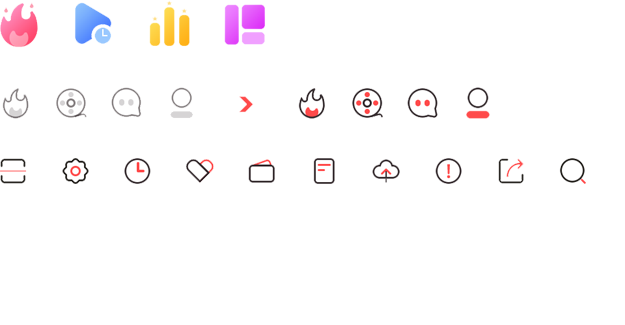
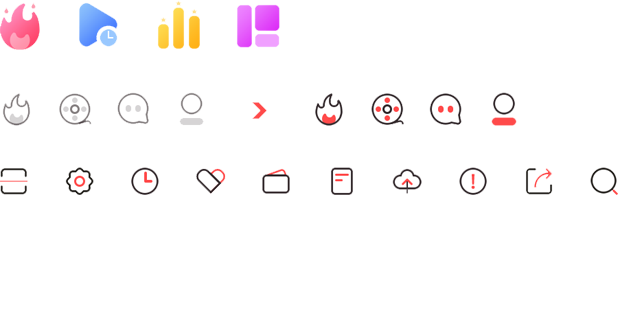
主页样式图片调整

diff --git a/src/components/home.vue b/src/components/home.vue
@@ -7,25 +7,41 @@
         <input type="text" @keyup.enter="submit" />
       </div>
     </div>
-    <div class="banner"></div>
-    <div class="banners">
-      <div class="banner-index"></div>
-      <div class="banner-index"></div>
-      <div class="banner-index"></div>
+    <div class="banner">
+      <img src="../assets/avengers.png" />
+    </div>
+    <div class="movies">
+      <div class="movie-index" v-for="(value,index) in imageList"  v-bind:key="index"></div>
     </div>
     <div class="main-nav">
       <ul>
-        <li class="icon hot"><a href="#"><img/><span>热门</span></a></li>
-        <li class="icon notice"><a href="#"><img/><span>预告</span></a></li>
-        <li class="icon mv-top"><a href="#"><img/><span>榜单</span></a></li>
-        <li class="icon item"><a href="#"><img/><span>分类</span></a></li>
+        <li class="icon hot"><a href="#"><span>热门</span></a></li>
+        <li class="icon notice"><a href="#"><span>预告</span></a></li>
+        <li class="icon mv-top"><a href="#"><span>榜单</span></a></li>
+        <li class="icon item"><a href="#"><span>分类</span></a></li>
       </ul>
     </div>
     <div class="main-lastet-broad">
       <h4>正在热播</h4>
+      <ul>
+        <li><a href="#"><span>热门</span></a></li>
+        <li><a href="#"><span>预告</span></a></li>
+        <li><a href="#"><span>榜单</span></a></li>
+        <li><a href="#"><span>榜单</span></a></li>
+        <li><a href="#"><span>榜单</span></a></li>
+        <li><a href="#"><span>榜单</span></a></li>
+        <li><a href="#"><span>榜单</span></a></li>
+        <li><a href="#"><span>榜单</span></a></li>
+        <li><a href="#"><span>榜单</span></a></li>
+      </ul>
     </div>
     <div class="main-lastet-online">
       <h4>最新上线</h4>
+      <ul>
+        <li><a href="#"><span>热门</span></a></li>
+        <li><a href="#"><span>预告</span></a></li>
+        <li><a href="#"><span>榜单</span></a></li>
+      </ul>
     </div>
     <div class="bottom">
       <router-view></router-view>
@@ -74,12 +90,15 @@
   margin: 0 auto;
   width: 95%;
   border-radius: 2rem;
-  background: url(../assets/bg1.png) no-repeat;
-  height: 12rem;
-  background-size: 120%;
+  height: 192px;
   box-shadow: 0.5rem 0.5rem 0.5rem #ebebeb;
 }
-.banners {
+.banner img{
+    width: 100%;
+    height: 100%;
+    border-radius: 2rem;
+}
+.movies {
   width: 95%;
   display: flex;
   justify-content: center;
@@ -87,30 +106,63 @@
   margin-top: 0.5rem;
   align-items: center;
 }
-.banner-index {
+.movie-index {
   width: 10px;
   margin-left: 5px;
   border: 1px solid #26231f;
 }
 .main-nav{
   width:100%;
-  position: relative;
   margin:1.5rem auto;
 }
 .main-nav ul{
+    position: relative;
+    display: flex;
+    padding: 0;
+    justify-content: space-around;
 }
 .main-nav ul li{
   display: inline-block;
+  height: 4.5rem;
+}
+.main-nav ul li a{
+  color:#2b231f;
 }
 .main-nav ul li span{
   position:absolute;
   bottom:0;
+  font-size: 0.8rem;
+  margin-left: 0.6rem;
+  font-family: sanfranciscotext;
 }
 .main-lastet-broad,
 .main-lastet-online {
-  margin: 2rem auto;
   width: 95%;
+  margin: 1.5rem auto;
   height: 10rem;
+}
+.main-lastet-broad h4,
+.main-lastet-online h4{
+  height: 0.5rem;
+}
+.main-lastet-broad ul{
+  position: relative;
+  white-space: nowrap;
+  overflow-y: auto;
+  display: flex;
+}
+.main-lastet-broad ul li{
+  border-radius: 1rem;
+  display: inline-block;
+  height: 8rem;
+  width: 6rem;
+  border: 1px solid #f5f5f5;
+}
+.main-lastet-broad ul li span{
+  position:absolute;
+  bottom:0;
+  font-size: 0.8rem;
+  font-family: sanfranciscotext;
 }
 </style>
 <script>
@@ -131,6 +183,11 @@ export default {
         { name: "留言", path: "/chat" },
         { name: "我的", path: "/my" },
       ],
+      imageList:[
+        {url:"",name:"1"},
+        {url:"",name:"2"},
+        {url:"",name:"3"},
+      ]
     };
   },
 };

diff --git a/src/styles/icon.scss b/src/styles/icon.scss
@@ -1,5 +1,5 @@
 .icon{width: 48px;height:48px;background: url("../assets/icon.png");}
 .hot{background-position: 0px 0px;}
-.notice{background-position: -72px 0px;}
-.mv-top{background-position: -145px 0px;}
-.item{background-position: -218px 0px;}
+.notice{background-position: -75px 0px;}
+.mv-top{background-position: -156px 0px;}
+.item{background-position: -235px 0px;}
